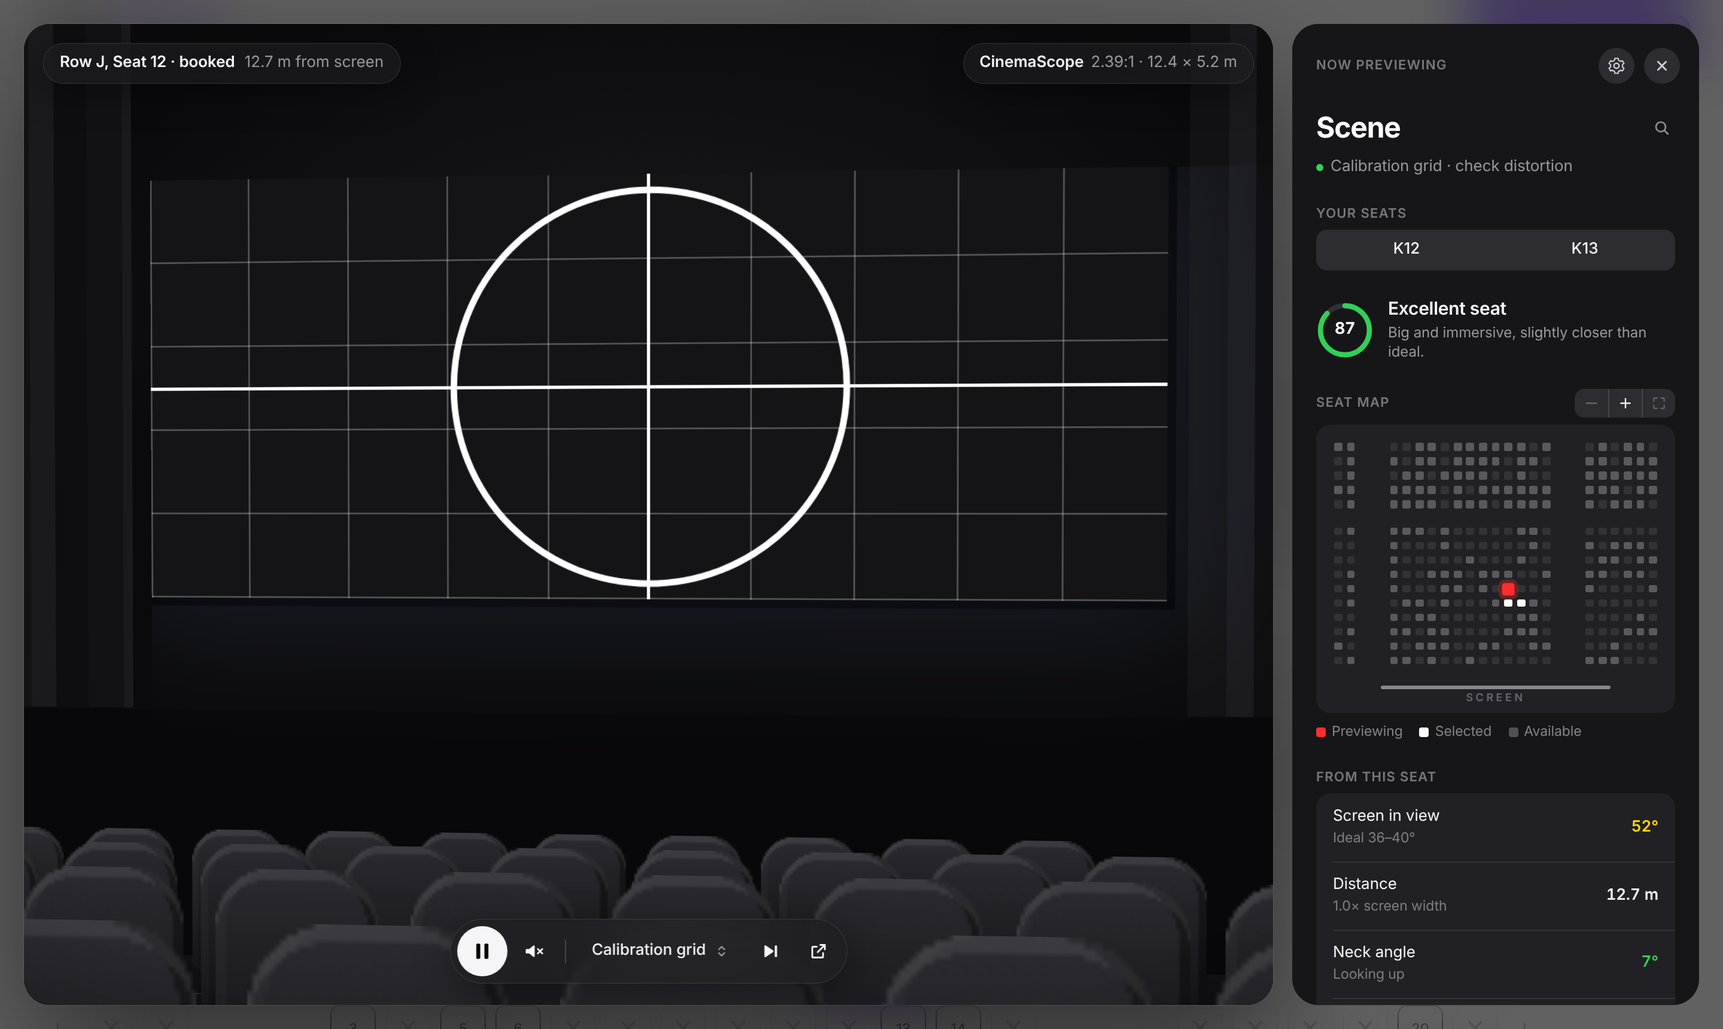
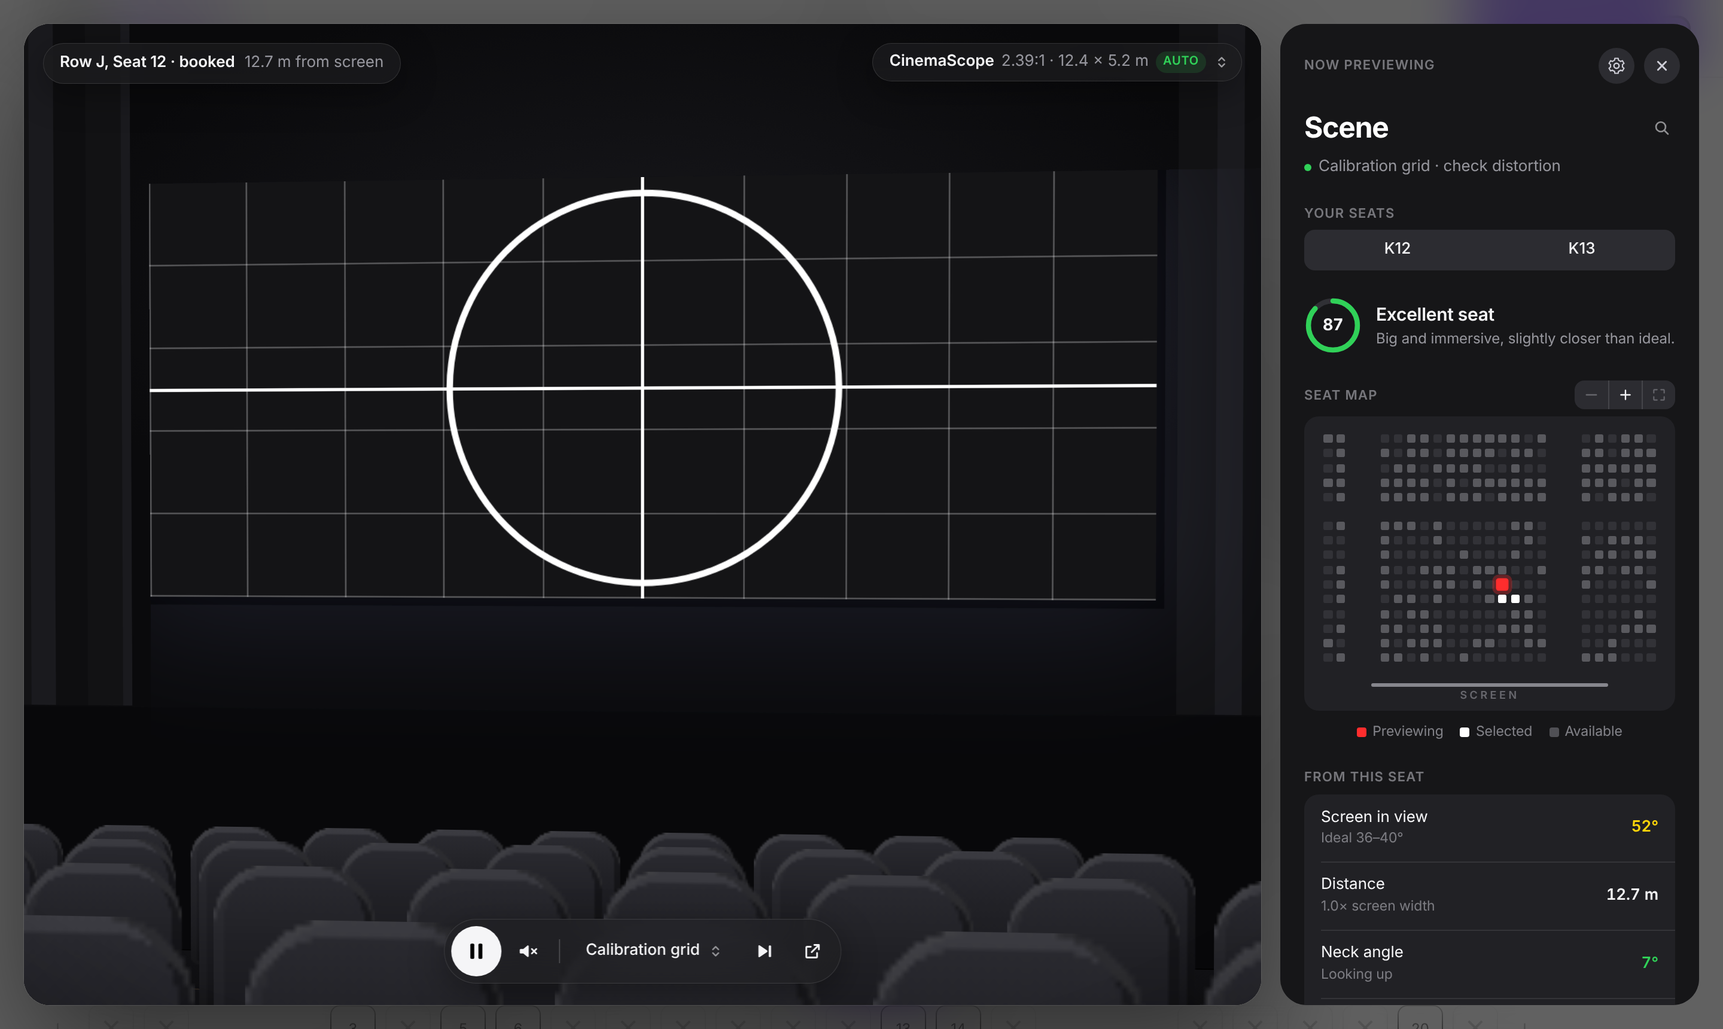
v2.3.0: format dropdown, wordmark, versioned project structure
- Screen format dropdown (top right) with detection source + Auto badge;
  detection from showtime chip caption and cinema name, live updates
- CineView wordmark in popup/options/README; toolbar icons from wordmark
- 'From this seat' wraps without horizontal scroll; centred map legend
- Restructure: extension/ (load unpacked), releases/ (all versions
  archived as zips), docs/logo, CHANGELOG.md, VERSION
- README hero: real District booking with the trailer playing

Claude-Session: https://claude.ai/code/session_01EKuLHeyBXavYJ7AwxYQMzt

diff --git a/extension/content/overlay.js b/extension/content/overlay.js
@@ -86,11 +86,26 @@
   .capsule { position: absolute; left: 16px; top: 16px; display: flex; align-items: baseline; gap: 8px; padding: 8px 14px;
     border-radius: 999px; pointer-events: none; font-weight: 600; font-size: 13px; transition: opacity .4s ease; }
   .capsule span { font-weight: 400; color: rgba(235,235,245,.6); }
-  .fmtpill { position: absolute; right: 16px; top: 16px; padding: 8px 14px; border-radius: 999px; font-weight: 600; font-size: 13px; pointer-events: none;
-    transition: opacity .4s ease, transform .4s ${EASE}; }
-  .fmtpill span { font-weight: 400; color: rgba(235,235,245,.6); margin-left: 6px; }
-  .fmtpill.flash { transform: scale(1.06); }
-  .stage.idle .fmtpill:not(.flash) { opacity: 0; }
+  .fmtpill { position: absolute; right: 16px; top: 16px; z-index: 6; display: flex; align-items: center; gap: 6px; padding: 7px 10px 7px 14px;
+    border: 0; border-radius: 999px; color: #f5f5f7; font: inherit; font-weight: 600; font-size: 13px; cursor: pointer;
+    transition: opacity .4s ease, transform .4s ${EASE}, background .2s; }
+  .fmtpill:hover { background: rgba(58,58,60,.75); }
+  .fmtpill span { font-weight: 400; color: rgba(235,235,245,.6); }
+  .fmtpill i { width: 14px; height: 14px; opacity: .6; }
+  .fmtpill .auto { font-size: 10px; font-weight: 600; letter-spacing: .04em; text-transform: uppercase; color: #30d158;
+    background: rgba(48,209,88,.14); padding: 2px 6px; border-radius: 999px; }
+  .fmtpill.flash { transform: scale(1.05); }
+  .stage.idle .fmtpill:not(.flash):not(.open) { opacity: 0; }
+  .fmtmenu { position: absolute; right: 16px; top: 58px; z-index: 7; width: 290px; border-radius: 14px; padding: 6px; opacity: 0;
+    transform: scale(.96); transform-origin: 100% 0; pointer-events: none; transition: opacity .2s ease, transform .3s ${EASE}; }
+  .fmtmenu.open { opacity: 1; transform: none; pointer-events: auto; }
+  .fmtmenu .hdr { padding: 6px 10px 8px; font-size: 11px; color: rgba(235,235,245,.5); line-height: 1.35; }
+  .fmtmenu .hdr b { display: block; font-size: 13px; color: #f5f5f7; font-weight: 600; margin-bottom: 1px; }
+  .fmtmenu .fi { display: grid; grid-template-columns: 18px 1fr auto; gap: 8px; align-items: center; padding: 8px 10px; border-radius: 8px; cursor: pointer; }
+  .fmtmenu .fi:hover { background: rgba(255,255,255,.1); }
+  .fmtmenu .fi i { width: 16px; height: 16px; }
+  .fmtmenu .fi b { font-weight: 500; } .fmtmenu .fi b em { font-style: normal; font-size: 10px; font-weight: 600; color: #30d158; margin-left: 6px; letter-spacing: .03em; }
+  .fmtmenu .fi small { color: rgba(235,235,245,.5); font-variant-numeric: tabular-nums; }
   .toast { position: absolute; left: 50%; top: 16px; transform: translate(-50%, -8px); opacity: 0; padding: 8px 14px; border-radius: 12px;
     font-weight: 500; pointer-events: none; transition: opacity .3s ease, transform .4s ${EASE}; max-width: 70%; text-align: center; }
   .toast.show { opacity: 1; transform: translate(-50%, 0); }
@@ -122,7 +137,7 @@
   .mdiv { height: .5px; background: rgba(255,255,255,.12); margin: 5px 8px; }
 
   /* ---------- Sidebar ---------- */
-  aside { width: 340px; flex: none; border-radius: 22px; overflow: hidden; display: flex; flex-direction: column;
+  aside { width: clamp(300px, 25vw, 350px); flex: none; min-width: 0; border-radius: 22px; overflow: hidden; display: flex; flex-direction: column;
     background: #161618; box-shadow: inset 0 0 0 .5px rgba(255,255,255,.1);
     isolation: isolate; contain: layout paint; }
   .views { position: relative; flex: 1; overflow: hidden; }
@@ -142,7 +157,7 @@
   .backbtn { display: flex; align-items: center; gap: 2px; border: 0; background: none; color: #f5f5f7; font: inherit; font-size: 15px; cursor: pointer; padding: 4px 6px 4px 0; }
   .backbtn i { width: 18px; height: 18px; }
   .backbtn:hover { opacity: .7; }
-  .scroll { flex: 1; overflow-x: hidden; overflow-y: auto; padding: 4px 20px 24px; display: flex; flex-direction: column; gap: 22px; scrollbar-width: thin; scrollbar-color: rgba(255,255,255,.15) transparent; }
+  .scroll { flex: 1; min-width: 0; overflow-x: hidden; overflow-y: auto; padding: 4px 20px 24px; display: flex; flex-direction: column; gap: 22px; scrollbar-width: thin; scrollbar-color: rgba(255,255,255,.15) transparent; }
   .eyebrow { font-size: 11px; font-weight: 600; letter-spacing: .06em; text-transform: uppercase; color: rgba(235,235,245,.45); margin-bottom: 6px; }
   .movie form { position: relative; }
   .movie input { width: 100%; font: inherit; font-size: 24px; font-weight: 700; letter-spacing: -.025em; color: #fff; background: transparent;
@@ -161,7 +176,8 @@
   .seg button small { display: block; font-size: 10.5px; font-weight: 400; color: rgba(235,235,245,.5); font-variant-numeric: tabular-nums; margin-top: 1px; }
   .seg button.on small { color: rgba(235,235,245,.75); }
   .seg button.on { background: rgba(99,99,102,.95); box-shadow: 0 3px 8px rgba(0,0,0,.25), inset 0 0 0 .5px rgba(255,255,255,.08); }
-  .score { display: flex; align-items: center; gap: 12px; }
+  .score { display: flex; align-items: center; gap: 12px; min-width: 0; }
+  .score > div:last-child { min-width: 0; }
   .ring { position: relative; width: 48px; height: 48px; flex: none; }
   .ring svg { transform: rotate(-90deg); }
   .ring circle { transition: stroke-dasharray .8s ${EASE}, stroke .4s ease; }
@@ -171,8 +187,9 @@
   .list { border-radius: 12px; background: rgba(118,118,128,.12); overflow: hidden; }
   .row { display: flex; align-items: center; justify-content: space-between; gap: 12px; padding: 11px 14px; position: relative; }
   .row + .row::before { content: ""; position: absolute; top: 0; left: 14px; right: 0; height: .5px; background: rgba(255,255,255,.09); }
-  .row .k { color: #f5f5f7; } .row .k small { display: block; color: rgba(235,235,245,.45); font-size: 11.5px; margin-top: 1px; }
-  .row .v { font-weight: 600; font-variant-numeric: tabular-nums; text-align: right; white-space: nowrap; }
+  .row .k { color: #f5f5f7; flex: 1 1 auto; min-width: 0; overflow-wrap: anywhere; }
+  .row .k small { display: block; color: rgba(235,235,245,.45); font-size: 11.5px; margin-top: 1px; }
+  .row .v { flex: none; max-width: 45%; font-weight: 600; font-variant-numeric: tabular-nums; text-align: right; }
   .v.good { color: #30d158; } .v.mid { color: #ffd60a; } .v.bad { color: #ff9f0a; }
   .map { position: relative; border-radius: 12px; background: rgba(118,118,128,.12); overflow: hidden; touch-action: none; user-select: none; cursor: grab; }
   .map.dragging { cursor: grabbing; }
@@ -199,7 +216,7 @@
   .zoomlbl { position: absolute; left: 10px; bottom: 8px; z-index: 5; font-size: 11px; font-weight: 600; padding: 3px 8px; border-radius: 999px;
     background: rgba(44,44,46,.94); color: rgba(235,235,245,.8); opacity: 0; transition: opacity .3s; pointer-events: none; font-variant-numeric: tabular-nums; }
   .zoomlbl.show { opacity: 1; }
-  .legend { display: flex; gap: 14px; margin-top: 8px; color: rgba(235,235,245,.5); font-size: 11.5px; }
+  .legend { display: flex; flex-wrap: wrap; justify-content: center; gap: 6px 14px; margin-top: 10px; color: rgba(235,235,245,.5); font-size: 11.5px; }
   .legend span { display: flex; align-items: center; gap: 5px; } .legend i { width: 8px; height: 8px; border-radius: 2px; }
   .set { padding: 12px 14px; position: relative; }
   .set + .set::before { content: ""; position: absolute; top: 0; left: 14px; right: 0; height: .5px; background: rgba(255,255,255,.09); }
@@ -238,7 +255,8 @@
           </div>
           <div class="vignette"></div>
           <div class="capsule glass"></div>
-          <div class="fmtpill glass"></div>
+          <button class="fmtpill glass" title="Screen format"></button>
+          <div class="fmtmenu glass"></div>
           <div class="toast glass"></div>
           <div class="menu glass"></div>
           <div class="player glass">
@@ -292,7 +310,7 @@
     state.els = {
       backdrop: q('.backdrop'), stage: q('.stage'), camera: q('.camera'), env: q('.env'), rows: q('.rows'), screen: q('.screen'),
       capsule: q('.capsule'), toast: q('.toast'), menu: q('.menu'), play: q('.play'), mute: q('.mute'), trailerBtn: q('.trailer-btn'),
-      next: q('.next'), yt: q('.yt'), close: q('.x'), close2: q('.x2'), gear: q('.gear'), backbtn: q('.backbtn'), aside: q('aside'), fmtpill: q('.fmtpill'), mapinner: q('.mapinner'), zin: q('.zin'), zout: q('.zout'), zfit: q('.zfit'), zoomlbl: q('.zoomlbl'), form: q('.movie form'), title: q('.title'), dot: q('.dot'), srctext: q('.srctext'),
+      next: q('.next'), yt: q('.yt'), close: q('.x'), close2: q('.x2'), gear: q('.gear'), backbtn: q('.backbtn'), aside: q('aside'), fmtpill: q('.fmtpill'), fmtmenu: q('.fmtmenu'), mapinner: q('.mapinner'), zin: q('.zin'), zout: q('.zout'), zfit: q('.zfit'), zoomlbl: q('.zoomlbl'), form: q('.movie form'), title: q('.title'), dot: q('.dot'), srctext: q('.srctext'),
       seats: q('.seats'), seatseg: q('.seatseg'), arc: q('.arc'), num: q('.num'), verdict: q('.verdict'), summary: q('.summary'),
       metrics: q('.metrics'), map: q('.map'), setlist: q('.setlist')
     };
@@ -301,6 +319,7 @@
     const E = state.els;
     E.close.onclick = E.close2.onclick = () => CV.Overlay.close();
     E.gear.onclick = () => togglePrefs(true);
+    E.fmtpill.onclick = (e) => { e.stopPropagation(); const o = !E.fmtmenu.classList.contains('open'); E.fmtmenu.classList.toggle('open', o); E.fmtpill.classList.toggle('open', o); };
     setupMapInteractions();
     E.backbtn.onclick = () => togglePrefs(false);
     E.backdrop.addEventListener('mousedown', (e) => { if (e.target === E.backdrop) CV.Overlay.close(); });
@@ -308,7 +327,11 @@
     E.mute.onclick = toggleMute;
     E.next.onclick = () => playTrailer(state.trailerIdx + 1);
     E.trailerBtn.onclick = (e) => { e.stopPropagation(); E.menu.classList.toggle('open'); };
-    root.addEventListener('mousedown', (e) => { if (!e.composedPath().includes(E.menu) && !e.composedPath().includes(E.trailerBtn)) E.menu.classList.remove('open'); });
+    root.addEventListener('mousedown', (e) => {
+      const path = e.composedPath();
+      if (!path.includes(E.menu) && !path.includes(E.trailerBtn)) E.menu.classList.remove('open');
+      if (!path.includes(E.fmtmenu) && !path.includes(E.fmtpill)) { E.fmtmenu.classList.remove('open'); E.fmtpill.classList.remove('open'); }
+    });
     E.form.onsubmit = (e) => { e.preventDefault(); E.title.blur(); loadTrailers(E.title.value, null); };
 
     // auto-hide the player controls while watching
@@ -447,7 +470,9 @@
     E.verdict.textContent = m.verdict;
     E.summary.textContent = m.headline;
     const fm = view.screen.format;
-    E.fmtpill.innerHTML = `${esc(fm.name)}<span>${ratioText(fm)} · ${view.screen.w.toFixed(1)} × ${view.screen.h.toFixed(1)} m</span>`;
+    const isAuto = state.formatInfo && state.formatInfo.ratio && Math.abs(state.formatInfo.ratio - fm.ratio) < 0.01 && !state.formatManual;
+    E.fmtpill.innerHTML = `${esc(fm.name)}<span>${ratioText(fm)} · ${view.screen.w.toFixed(1)} × ${view.screen.h.toFixed(1)} m</span>${isAuto ? '<span class="auto">Auto</span>' : ''}<i>${ICON.updown}</i>`;
+    renderFormatMenu();
     E.capsule.innerHTML = `${esc(seatName(seat))}${seat.status === 'occupied' ? ' · booked' : ''}<span>${m.distance.toFixed(1)} m from screen</span>`;
 
     const fill = m.hAngle >= 33 && m.hAngle <= 46 ? 'good' : m.hAngle >= 26 && m.hAngle <= 56 ? 'mid' : 'bad';
@@ -591,22 +616,22 @@
   }
 
   const ratioText = (f) => (f.id === 'hd' ? '16:9' : f.ratio.toFixed(2) + ':1');
-  function renderFormats() {
-    const seg = state.els.formatseg;
-    if (!seg) return;
-    seg.textContent = '';
+  function renderFormatMenu() {
+    const menu = state.els.fmtmenu;
     const cur = CV.formatFor(state.settings.aspect);
+    const info = state.formatInfo || {};
+    const detected = info.ratio ? CV.formatFor(info.ratio) : null;
+    menu.innerHTML = `<div class="hdr"><b>Screen format</b>${esc(info.source ? 'Detected from ' + info.source : 'Not listed on the page – CinemaScope assumed')}</div>`;
     for (const f of CV.FORMATS) {
-      const b = h('button', f === cur ? 'on' : '', `${f.label}<small>${f.id === 'hd' ? '1.78:1' : f.ratio.toFixed(2) + ':1'}</small>`);
-      b.type = 'button'; b.title = f.name;
-      b.onclick = () => setFormat(f);
-      seg.appendChild(b);
+      const it = h('div', 'fi', `<i>${f === cur ? ICON.check : ''}</i><b>${esc(f.name)}${f === detected ? '<em>DETECTED</em>' : ''}</b><small>${ratioText(f)}</small>`);
+      it.onclick = () => { setFormat(f, true); menu.classList.remove('open'); state.els.fmtpill.classList.remove('open'); };
+      menu.appendChild(it);
     }
   }
 
-  function setFormat(f) {
+  function setFormat(f, manual) {
     state.settings.aspect = f.ratio;
-    renderSettings();
+    if (manual) state.formatManual = !(state.formatInfo && state.formatInfo.ratio && Math.abs(state.formatInfo.ratio - f.ratio) < 0.01);
     render(false);
     const pill = state.els.fmtpill;
     pill.classList.add('flash'); if (state.wake) state.wake();
@@ -638,11 +663,6 @@
   function renderSettings() {
     const list = state.els.setlist, s = state.settings;
     list.textContent = '';
-    const fmt = h('div', 'set', '<header><span>Screen format</span><span></span></header>');
-    const fseg = h('div', 'seg');
-    fmt.appendChild(fseg); list.appendChild(fmt);
-    state.els.formatseg = fseg; renderFormats();
-    fmt.querySelector('header span:last-child').textContent = CV.formatFor(s.aspect).name;
     const fit = h('div', 'set', '<header><span>Trailer on screen</span><span></span></header>');
     const seg = h('div', 'seg');
     for (const [v, t] of [['cover', 'Fill screen'], ['fit', 'Show full frame']]) {
@@ -809,7 +829,7 @@
       if (state.host) this.close(true);
       Object.assign(state, {
         layout: ctx.layout, selected: ctx.selected || [], seat: ctx.seat, settings: { ...CV.DEFAULT_SETTINGS, ...(ctx.settings || {}) },
-        trailers: [], trailerIdx: 0, muted: true, playing: true, iframe: null, hints: ctx.hints || null
+        trailers: [], trailerIdx: 0, muted: true, playing: true, iframe: null, hints: ctx.hints || null, formatInfo: ctx.formatInfo || null, formatManual: false
       });
       document.documentElement.appendChild(build());
       window.addEventListener('message', onYtMessage);
@@ -821,6 +841,13 @@
     },
     // Called when the page switches to another movie/show while open
     updateMovie(title, hints) { if (state.host && title && title !== state.title) loadTrailers(title, hints || null); },
+    // Called when the selected show changes (e.g. user picks the IMAX showtime while the preview is open)
+    updateFormat(info) {
+      if (!state.host || !info || !info.ratio) return;
+      state.formatInfo = info;
+      if (!state.formatManual && Math.abs(state.settings.aspect - info.ratio) > 0.01) setFormat(CV.formatFor(info.ratio), false);
+      else render(true);
+    },
     close(immediate) {
       if (!state.host) return;
       window.removeEventListener('message', onYtMessage);

diff --git a/extension/content/main.js b/extension/content/main.js
@@ -142,31 +142,43 @@
     return null;
   }
 
-  // Find the showtime chip whose time matches the selected show and read its label/caption (e.g. "IMAX 3D")
+  // Find the showtime chip whose time matches the selected show and read its label/caption (e.g. "10:30 PM · IMAX 3D").
+  // Returns { ratio, source } or null.
   function detectFormat(showLine) {
+    // 1) The cinema / screen name itself (e.g. "PVR IMAX Lower Parel", "Audi 3 – IMAX")
+    const venue = (showLine || '').split(/\bat\b/i).slice(1).join(' ');
+    const fv = formatFromText(venue);
+    if (fv) return { ratio: fv, source: 'the cinema name' };
+
+    // 2) The showtime chip for the selected time
     const m = (showLine || '').match(/(\d{1,2}:\d{2})\s?(am|pm)/i);
     if (!m) return null;
     const want = (m[1] + ' ' + m[2]).toLowerCase().replace(/^0/, '');
     const norm = (t) => t.toLowerCase().replace(/\s+/g, ' ').replace(/(\d)(am|pm)/, '$1 $2').replace(/^0/, '').trim();
+    let fallback = null;
     for (const el of document.body.querySelectorAll('*')) {
       if (el.children.length > 0 || el.closest('#cineview-root,script,style')) continue;
       const raw = el.textContent || '';
       if (raw.length > 12 || norm(raw) !== want) continue;
       const r = el.getBoundingClientRect();
-      if (!r.width || r.top > 700) continue;
-      // climb to the chip + its caption (stay small so we don't read the whole showtime strip)
+      if (!r.width || r.top > 800) continue;
+      // climb to the chip + its caption, staying small so we don't read the whole showtime strip
       let node = el, text = '';
-      for (let i = 0; i < 4 && node; i++) {
+      for (let i = 0; i < 5 && node; i++) {
         const t = (node.innerText || '').replace(/\s+/g, ' ').trim();
         if (t.length > 40) break;
         text = t;
         node = node.parentElement;
       }
-      const f = formatFromText(text);
-      if (f) return f;
-      if (text) return 2.39; // matched the chip and it isn't IMAX → standard scope house
+      // tidy "10:30 PM IMAX IMAX 3D" → "10:30 PM · IMAX 3D"
+      const words = text.replace(/\s+/g, ' ').split(' ');
+      const tidy = words.filter((w, i) => !words.slice(i + 1).some((x) => x.toLowerCase() === w.toLowerCase() && !/\d/.test(w)));
+      const label = tidy.join(' ');
+      const f = formatFromText(label);
+      if (f) return { ratio: f, source: `the showtime “${label.replace(/(\d{1,2}:\d{2}\s?[AP]M)/i, '$1 ·')}”` };
+      if (label && !fallback) fallback = { ratio: 2.39, source: `the showtime “${label.replace(/(\d{1,2}:\d{2}\s?[AP]M)/i, '$1 ·')}” (standard screen)` };
     }
-    return null;
+    return fallback;
   }
 
   async function remembered() {
@@ -197,7 +209,11 @@
       ids = [...new Set([...(mem.ids || []), ...ids])];
     }
     // Screen format: the showtime chip matching the selected show ("10:30 PM · IMAX 3D"), then the header
-    const format = detectFormat(headScope) || formatFromText(nearText + ' ' + ((document.querySelector('header') || {}).innerText || ''));
+    let format = detectFormat(headScope);
+    if (!format) {
+      const f = formatFromText(nearText + ' ' + ((document.querySelector('header') || {}).innerText || ''));
+      if (f) format = { ratio: f, source: 'the booking header' };
+    }
     return { title, lang, ids, format };
   }
   CV.detectMovie = detectMovie;
@@ -233,8 +249,8 @@
     let settings = {};
     try { settings = (await chrome.storage.sync.get({ settings: {} })).settings || {}; } catch (_) {}
     const movie = await detectMovie();
-    settings.aspect = movie.format || 2.39; // format is per show, not a saved preference
-    CV.Overlay.open({ layout, selected, seat, title: movie.title, hints: { lang: movie.lang, ids: movie.ids }, settings, message });
+    settings.aspect = (movie.format && movie.format.ratio) || 2.39; // format is per show, not a saved preference
+    CV.Overlay.open({ layout, selected, seat, title: movie.title, hints: { lang: movie.lang, ids: movie.ids }, formatInfo: movie.format, settings, message });
     lastSeenTitle = movie.title;
   }
   CV.openPreview = openPreview;
@@ -257,6 +273,7 @@
     if (CV.Overlay && CV.Overlay.isOpen()) {
       await new Promise((r) => setTimeout(r, 1200)); // let the new page render
       const m = await detectMovie();
+      if (m.format) CV.Overlay.updateFormat(m.format);
       if (m.title && m.title !== lastSeenTitle) {
         lastSeenTitle = m.title;
         CV.Overlay.updateMovie(m.title, { lang: m.lang, ids: m.ids });

diff --git a/extension/options/options.html b/extension/options/options.html
@@ -7,7 +7,7 @@
 body { background: var(--bg); color: var(--fg); font: 14px/1.5 -apple-system, BlinkMacSystemFont, "SF Pro Text", "Helvetica Neue", system-ui, sans-serif; -webkit-font-smoothing: antialiased; }
 main { max-width: 600px; margin: 64px auto; padding: 0 24px; }
 .hero { text-align: center; margin-bottom: 40px; }
-.hero img { width: 84px; height: 84px; border-radius: 20px; box-shadow: 0 0 0 .5px var(--line), 0 10px 30px rgba(0,0,0,.12); }
+.hero img.wm { width: 300px; max-width: 80%; height: auto; display: block; margin: 0 auto 14px; }
 h1 { font-size: 34px; font-weight: 700; letter-spacing: -.03em; margin-top: 16px; } h1 em { font-style: normal; color: var(--red); }
 .hero p { color: var(--sub); font-size: 17px; }
 h2 { font-size: 13px; font-weight: 400; text-transform: uppercase; letter-spacing: .04em; color: var(--sub); margin: 28px 16px 8px; }
@@ -22,7 +22,7 @@ button.danger { color: var(--red); }
 a { color: #0a84ff; text-decoration: none; }
 </style></head>
 <body><main>
-  <div class="hero"><img src="../icons/icon128.png" alt=""><h1>Cine<em>View</em></h1><p>See the screen from your seat.</p></div>
+  <div class="hero"><img class="wm" src="../icons/wordmark-transparent.png" alt="CineView"><p>See the screen from your seat.</p></div>
   <h2>Trailers</h2>
   <div class="card">
     <div class="row"><input id="key" placeholder="YouTube Data API key (optional)" autocomplete="off" spellcheck="false"></div>

diff --git a/extension/popup/popup.css b/extension/popup/popup.css
@@ -4,10 +4,11 @@
 * { box-sizing: border-box; margin: 0; }
 body { width: 300px; padding: 18px; background: var(--bg); color: var(--fg);
   font: 13px/1.45 -apple-system, BlinkMacSystemFont, "SF Pro Text", "Helvetica Neue", system-ui, sans-serif; -webkit-font-smoothing: antialiased; }
-header { display: flex; align-items: center; gap: 12px; }
-header img { width: 44px; height: 44px; border-radius: 11px; box-shadow: 0 0 0 .5px var(--line), 0 4px 12px rgba(0,0,0,.08); }
+header { display: flex; flex-direction: column; align-items: center; gap: 8px; text-align: center; padding-top: 4px; }
+header img.wm { width: 168px; height: auto; display: block; }
 h1 { font-size: 19px; font-weight: 700; letter-spacing: -.02em; } h1 em { font-style: normal; color: var(--red); }
 header p { color: var(--sub); }
+.busy { justify-content: center; }
 .busy { display: flex; align-items: center; gap: 10px; margin-top: 18px; color: var(--sub); }
 .spin { width: 16px; height: 16px; border-radius: 50%; border: 2px solid var(--line); border-top-color: var(--fg); animation: s 1s linear infinite; }
 @keyframes s { to { transform: rotate(360deg) } }

diff --git a/extension/popup/popup.html b/extension/popup/popup.html
@@ -1,7 +1,7 @@
 <!doctype html>
 <html><head><meta charset="utf-8"><link rel="stylesheet" href="popup.css"></head>
 <body>
-  <header><img src="../icons/icon128.png" alt=""><div><h1>Cine<em>View</em></h1><p>See the screen from your seat</p></div></header>
+  <header><img class="wm" src="../icons/wordmark-transparent.png" alt="CineView"><p>See the screen from your seat</p></header>
   <div id="busy" class="busy"><span class="spin"></span>Opening preview…</div>
   <div id="help" hidden>
     <p class="lead" id="msg"></p>
